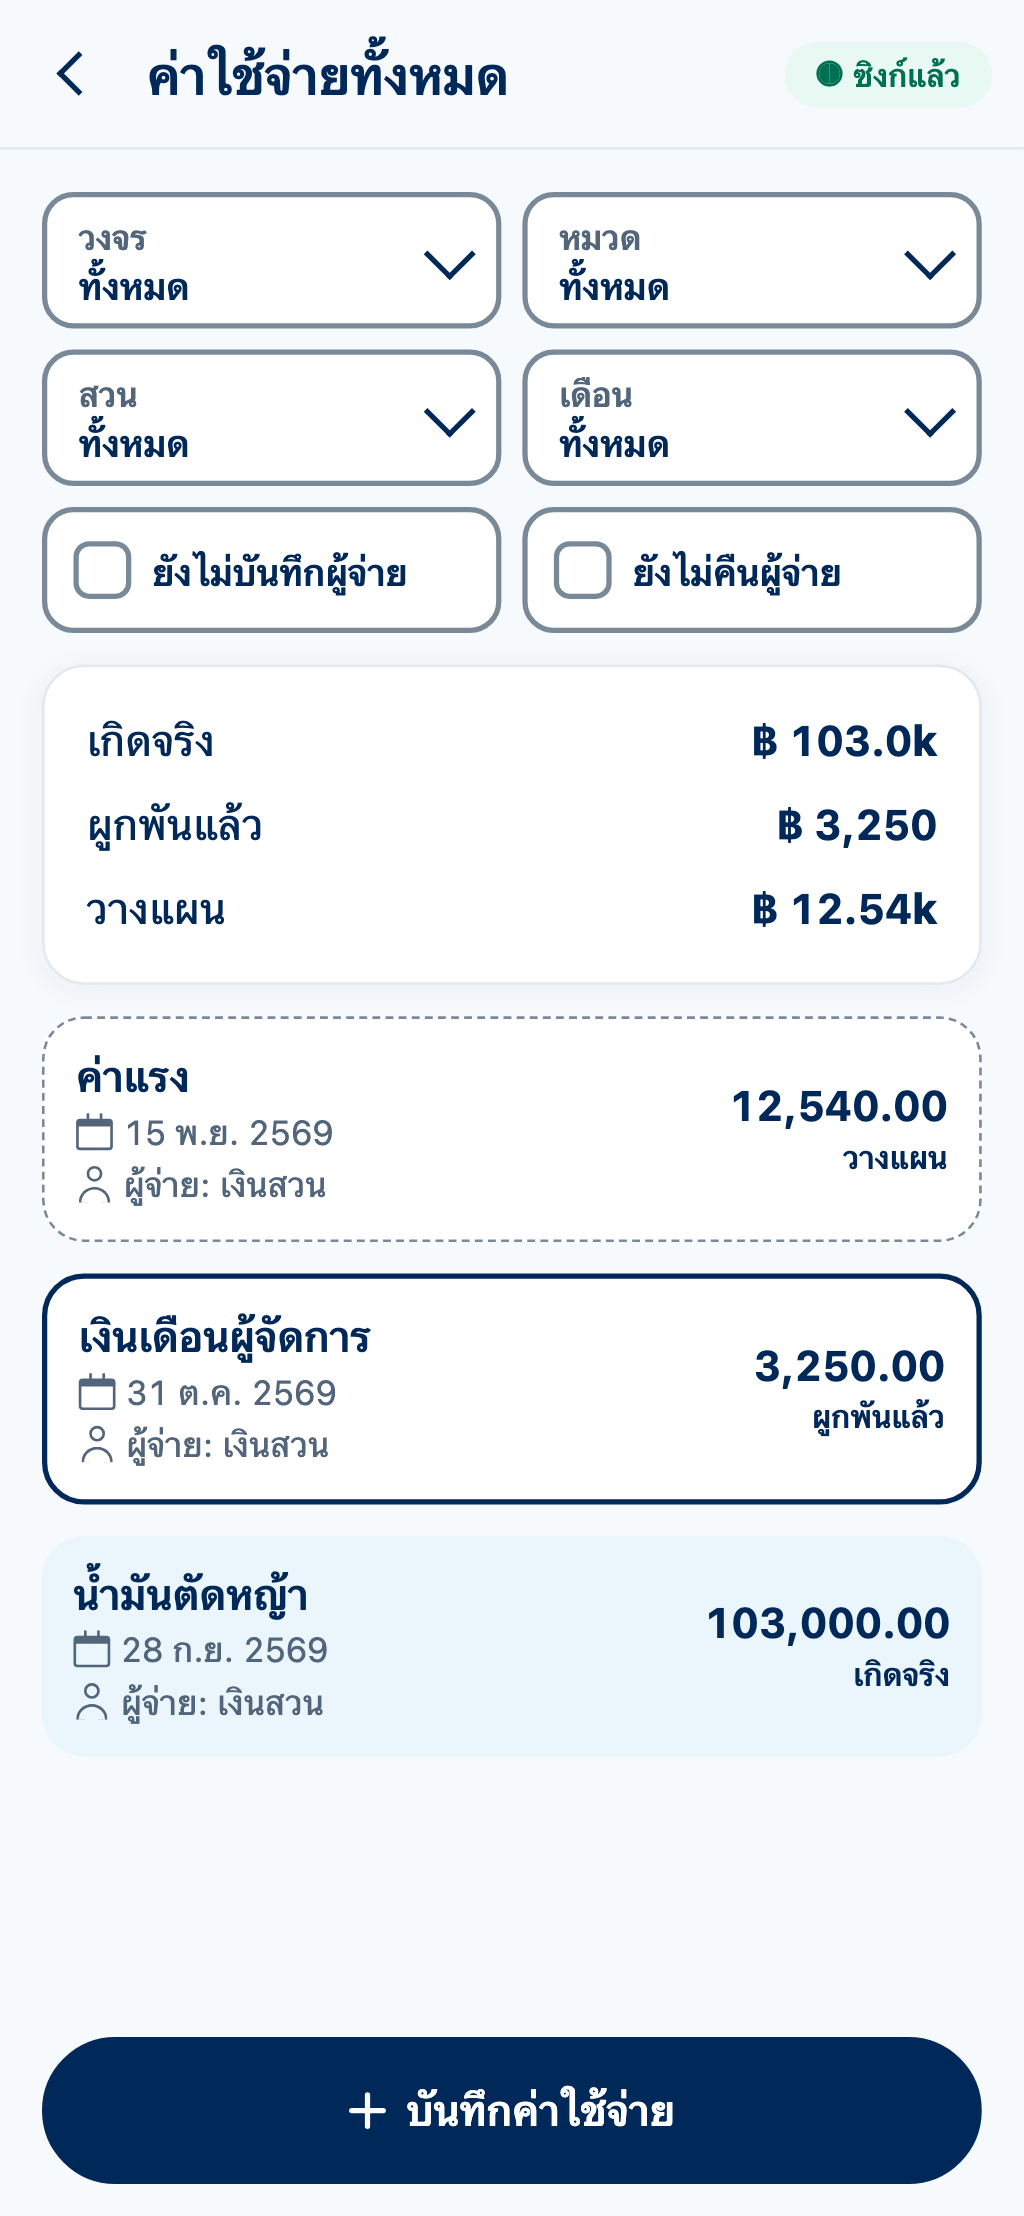
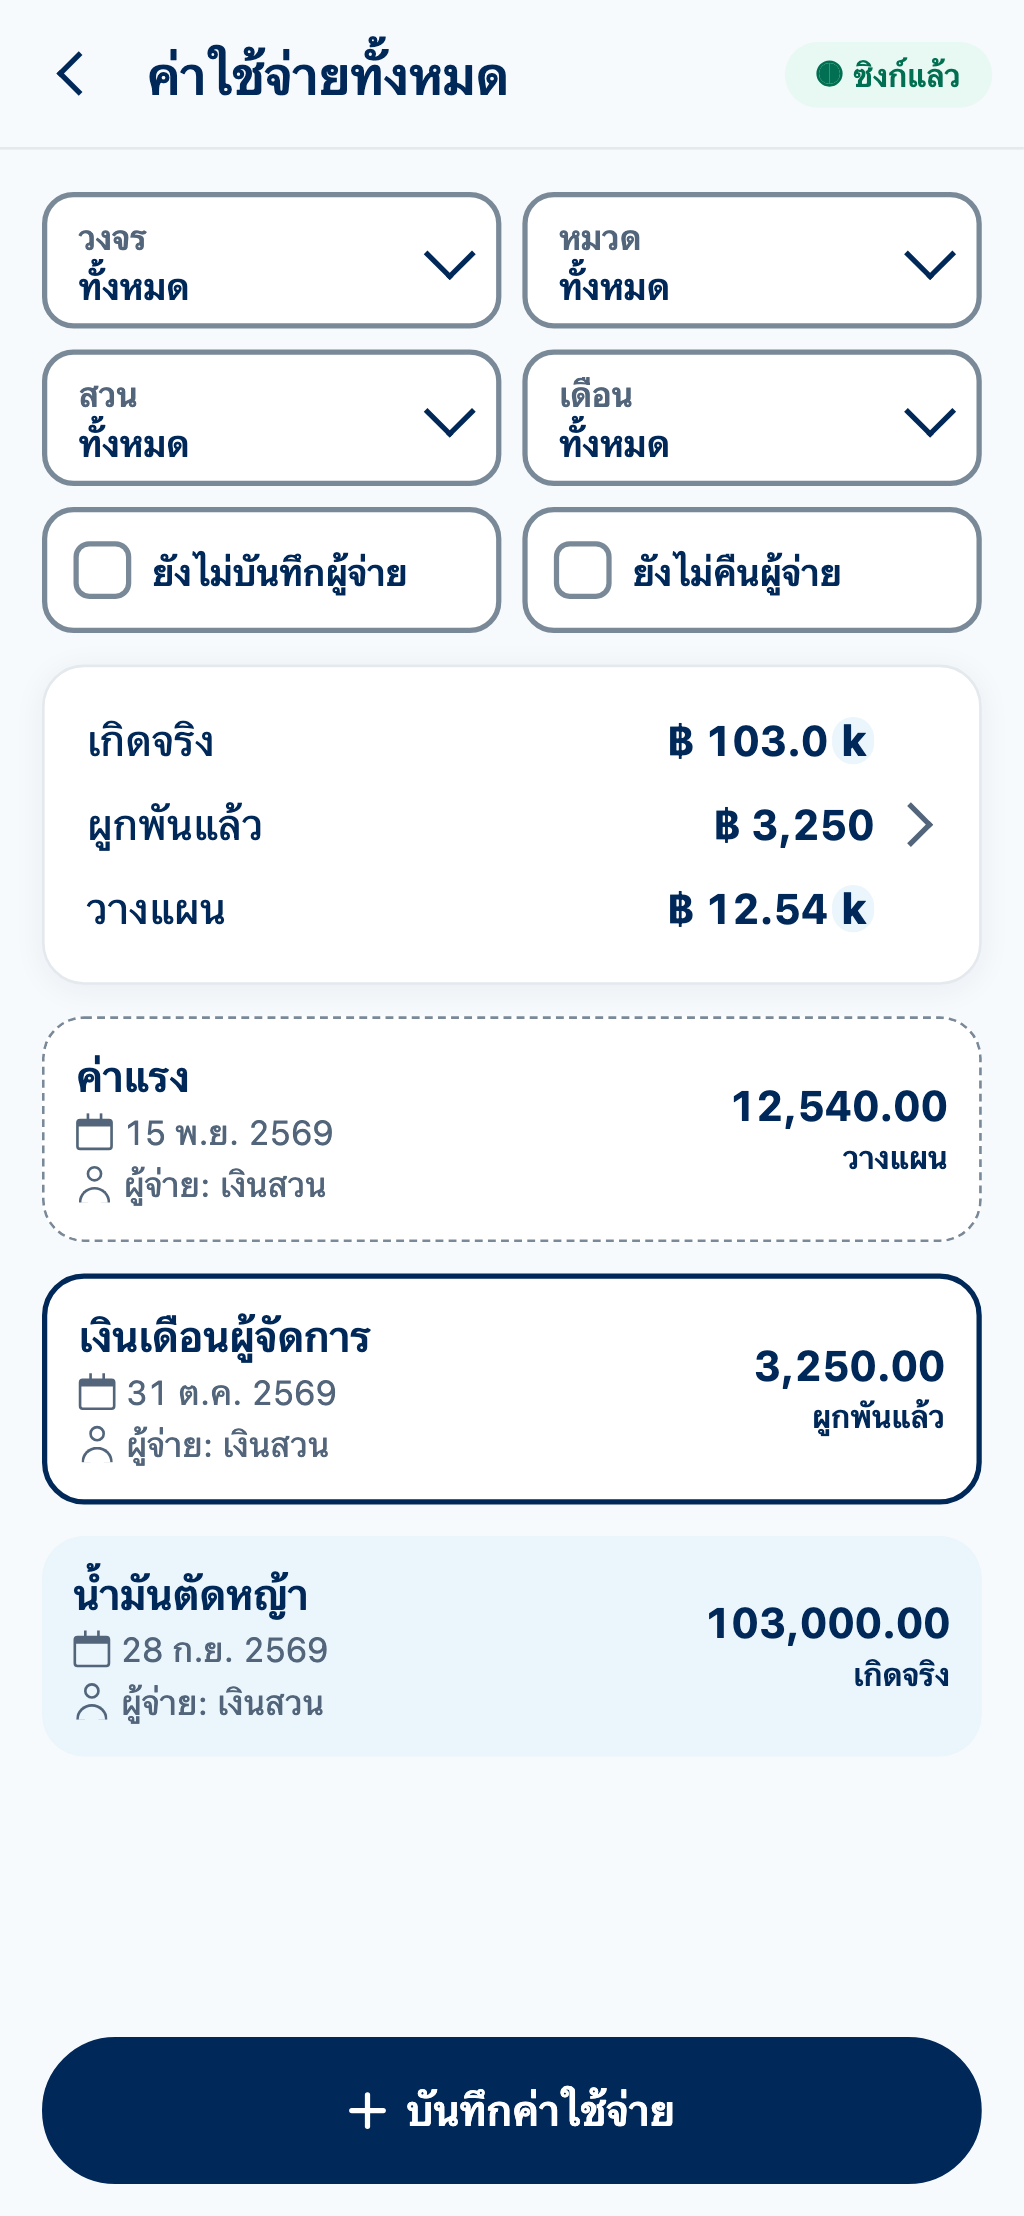
fix(money): totals hint says the action
Re-review of PR 251 (0 B, 5 N). The card's screen-reader hint now says
what the tap does (fin.total.open 'ดูยอดรวมเต็ม', like co.sale.open).
The 'never 0' test asserts the planned row is exactly the label and the
ไม่ทราบ pill. The e2e also closes the sheet with Escape. The two
19-*-after shots are re-taken at 390x844 on this build.

Changed region(s): [[0.6562, 0.3114, 0.9062, 0.4359]]

diff --git a/src/__tests__/v2-expenses.test.tsx b/src/__tests__/v2-expenses.test.tsx
@@ -411,6 +411,8 @@ describe('expense list (F4, F7)', () => {
     expect(screen.queryByTestId('totals-sheet')).toBeNull();
     const card = screen.getByTestId('totals');
     expect(card.props.accessibilityRole).toBe('button');
+    // The hint says what the tap does (like co.sale.open), not just the sheet's title.
+    expect(card.props.accessibilityHint).toBe('ดูยอดรวมเต็ม');
     fireEvent.press(card);
     const sheet = screen.getByTestId('totals-sheet');
     expect(sheet.props.accessibilityLabel).toBe('ยอดรวมเต็ม');
@@ -428,8 +430,10 @@ describe('expense list (F4, F7)', () => {
     fireEvent.press(screen.getByTestId('filter-month'));
     fireEvent.press(screen.getByTestId('month-2025-06'));
     fireEvent.press(screen.getByTestId('totals'));
-    expect(screen.getByTestId('totals-sheet-planned')).toHaveTextContent(/ไม่ทราบ/);
-    expect(screen.getByTestId('totals-sheet-planned')).not.toHaveTextContent(/0\.00/);
+    const planned = screen.getByTestId('totals-sheet-planned');
+    // The row is the label and the ไม่ทราบ pill, nothing else: no 0 written any way.
+    expect(planned).toHaveTextContent(/^วางแผนไม่ทราบ$/);
+    expect(within(planned).getByTestId('totals-sheet-planned-unknown')).toHaveTextContent('ไม่ทราบ');
   });
 });
 

diff --git a/src/v2/money/expenses-screen.tsx b/src/v2/money/expenses-screen.tsx
@@ -203,7 +203,7 @@ export function ExpensesScreen() {
         <Pressable
           testID="totals"
           accessibilityRole="button"
-          accessibilityHint={msg('fin.total.sheet')}
+          accessibilityHint={msg('fin.total.open')}
           onPress={() => setTotalsOpen(true)}
           style={{ ...cardStyle(t), padding: t.space.lg, flexDirection: 'row', alignItems: 'center', gap: t.space.sm, minHeight: t.target.min }}
         >
@@ -362,7 +362,7 @@ function TotalsSheet({ open, onClose, rows, planned }: { open: boolean; onClose:
         {line(
           'totals-sheet-planned',
           planned.label,
-          planned.unknownCount && !planned.knownSatang ? <UnknownPill /> : exact(planned.knownSatang),
+          planned.unknownCount && !planned.knownSatang ? <UnknownPill testID="totals-sheet-planned-unknown" /> : exact(planned.knownSatang),
           planned.unknownCount && planned.knownSatang ? <AppText variant="caption" style={{ textAlign: 'right' }}>{`+ ${msg('fin.total.unknown', { n: planned.unknownCount })}`}</AppText> : null,
         )}
       </View>

diff --git a/src/i18n/messages.ts b/src/i18n/messages.ts
@@ -1270,6 +1270,7 @@ const th = {
   'fin.total.planned': 'วางแผน',
   'fin.total.unknown': 'ไม่ทราบ {n} รายการ',
   'fin.total.sheet': 'ยอดรวมเต็ม',
+  'fin.total.open': 'ดูยอดรวมเต็ม',
   'fin.total.close': 'ปิด',
   'fin.stage.actual': 'เกิดจริง',
   'fin.stage.committed': 'ผูกพันแล้ว',
@@ -3325,6 +3326,7 @@ const en: Partial<Record<keyof typeof th, string>> = {
   'fin.total.planned': 'planned',
   'fin.total.unknown': '{n} unknown',
   'fin.total.sheet': 'exact totals',
+  'fin.total.open': 'see the exact totals',
   'fin.total.close': 'close',
   'fin.stage.actual': 'actual',
   'fin.stage.committed': 'committed',

diff --git a/e2e/v2-money.spec.ts b/e2e/v2-money.spec.ts
@@ -565,5 +565,10 @@ for (const [width, size] of [[320, 'l'], [390, 'm']] as const) {
     await evidence(page, `docs/ux/screenshots/expense-summary-compact/${width}-${size}-totals-sheet-after.png`);
     await page.getByTestId('totals-sheet-close').click();
     await expect(sheet).toBeHidden();
+    // Escape closes it too (the same onRequestClose path as Android back).
+    await page.getByTestId('totals').click();
+    await expect(sheet).toBeVisible();
+    await page.keyboard.press('Escape');
+    await expect(sheet).toBeHidden();
   });
 }
